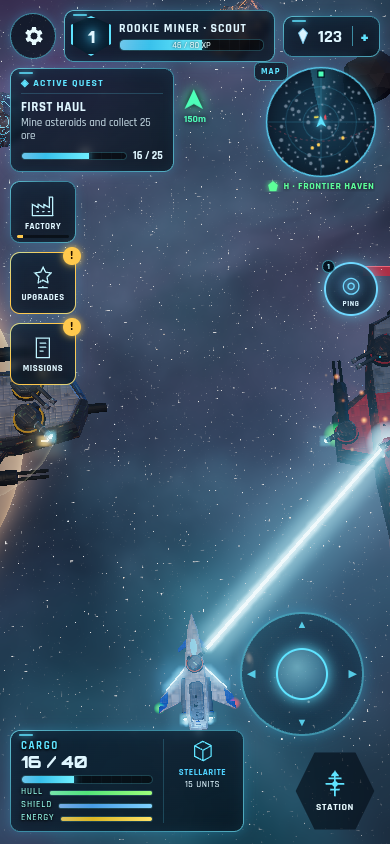
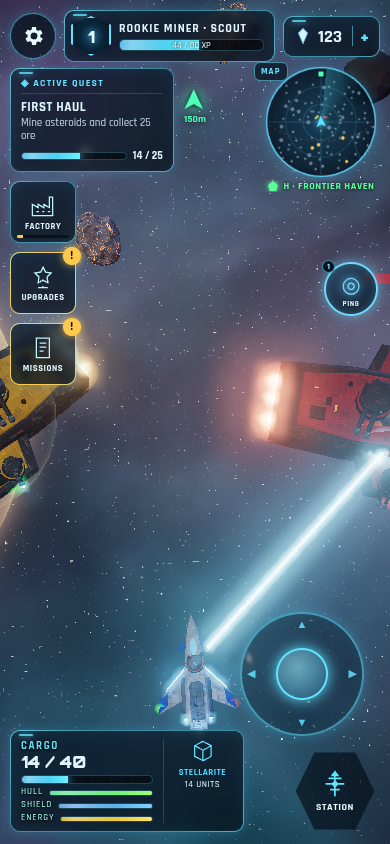
v9 WIP: brighter plasma ramp, deck-height effects, burning breaches, reactor pulses, v9 test + shots

diff --git a/src/explosions.js b/src/explosions.js
@@ -82,9 +82,9 @@ void main() {
   float rim = 0.5 + 0.45 * n;
   float body = 1.0 - smoothstep(rim * 0.55, rim, r);
   float hollow = mix(1.0, smoothstep(0.0, 0.75, r + n * 0.35), smoothstep(0.3, 1.0, age) * 0.75); // core cools first, shell thins
-  float T = clamp(vP.z * (1.0 - age * 0.9) * (1.05 - r * 0.95) + (n - 0.5) * 0.4, 0.0, 1.0);
-  vec3 col = ramp(T) * mix(vec3(1.0), vC, 0.3) * (0.45 + 1.9 * T * T) * (0.6 + 0.55 * n);
-  float a = body * hollow * pow(1.0 - age, 1.4) * vP.w * uGain;
+  float T = clamp(vP.z * (1.0 - age * 0.6) * (1.25 - r * 0.85) + (n - 0.5) * 0.4, 0.0, 1.0);
+  vec3 col = ramp(T) * mix(vec3(1.0), vC, 0.3) * (0.8 + 2.4 * T * T) * (0.6 + 0.55 * n);
+  float a = body * hollow * pow(1.0 - age, 0.9) * vP.w * uGain;
   gl_FragColor = vec4(min(col, vec3(2.6)) * a, a * 0.45); // premultiplied: partly occludes (soft internal shadow), mostly adds
 }`;
 class PlasmaSystem {
@@ -243,9 +243,9 @@ export class ExplosionManager {
     // 2: localized flash (short, white-hot, small) — sized so a fighter never rivals a capital ship
     this.plasma.spawn(x, y + 0.4, z, 0.6 * s, 2.6 * s, 0.12 + 0.03 * s, 1, 1.2, null, vx * 0.5, vz * 0.5);
     // 3: plasma expansion: main lobe + offset lobes drifting with the wreck
-    this.plasma.spawn(x, y + 0.3, z, 1.0 * s, 4.2 * s, 0.45 + 0.16 * s, heat * 0.9, 1, o.tint, vx * 0.6, vz * 0.6);
+    this.plasma.spawn(x, y + 0.3, z, 1.2 * s, 5.2 * s, 0.6 + 0.2 * s, heat * 0.95, 1, o.tint, vx * 0.6, vz * 0.6);
     const lobes = near > 0.4 ? Math.min(4, Math.round(s * 1.2)) : 1;
-    for (let k = 0; k < lobes; k++) { const a = rand(0, TAU), d = rand(0.4, 1) * s; this.plasma.spawn(x + Math.cos(a) * d, y + 0.2, z + Math.sin(a) * d, 0.6 * s, rand(2, 3.2) * s, rand(0.4, 0.7) + 0.1 * s, heat * rand(0.55, 0.8), 0.8, o.tint, vx * 0.6 + Math.cos(a) * s, vz * 0.6 + Math.sin(a) * s); }
+    for (let k = 0; k < lobes; k++) { const a = rand(0, TAU), d = rand(0.4, 1) * s; this.plasma.spawn(x + Math.cos(a) * d, y + 0.2, z + Math.sin(a) * d, 0.6 * s, rand(2.6, 3.8) * s, rand(0.5, 0.8) + 0.15 * s, heat * rand(0.55, 0.8), 0.8, o.tint, vx * 0.6 + Math.cos(a) * s, vz * 0.6 + Math.sin(a) * s); }
     // hot streaks / sparks (existing pooled particles)
     g.fx.burst(x, y, z, Math.ceil((4 + 4 * s) * B.spark * near), 9 + 5 * s, 0.6, 0.35, 0.05, [3.0, 1.6, 0.5], 0.6, 0.5);
     // 4: fragments
@@ -253,7 +253,7 @@ export class ExplosionManager {
     for (let k = 0; k < nf; k++) this.debris.spawn(x, y, z, vx, vz, o.ix || 0, o.iz || 0, 5 + 3 * s, 0.25 + 0.12 * Math.min(s, 4) * rand(0.6, 1.3), Math.random() < 0.3 ? 'plate' : 'chip', heat);
     if (o.light !== false) this.lights.light(x, y, z, o.light ?? s, 0xff9a4a, 0.25 + 0.08 * s, 14 + 9 * s);
     if (s >= 2.5 && near > 0.3) g.ripple && g.ripple(x, z, 6 * s, 0.005 + 0.0015 * Math.min(4, s), 0.5);
-    if (o.ring !== false && s >= 1.2) g.rings.spawn(x, y - 0.2, z, 6 * s, o.tint ? o.tint.map((v) => v * 0.7) : [3, 1.2, 0.5], 0.45 + 0.05 * s);
+    if (o.ring !== false && s >= 1.2) g.rings.spawn(x, y - 0.2, z, 4.5 * s, o.tint ? o.tint.map((v) => v * 0.35) : [1.5, 0.6, 0.25], 0.4 + 0.05 * s);
     if (o.sound !== false && g.audio && g.audio.blast) g.audio.blast(s, x, z, { electric: o.electric, reactor: o.reactor });
     if (o.shake !== false) this.shake(o.shake ?? 0.12 * Math.min(4, s), x, z);
     // 6: dissipation — a few cooling embers, no smoke
@@ -318,17 +318,17 @@ export class ExplosionManager {
     const S = { e, P, t: 0, dur, x: e.x, z: e.z, y: 0.5, vx: Number.isFinite(e.vx) ? e.vx : 0, vz: Number.isFinite(e.vz) ? e.vz : 0, yaw, hx: Math.sin(yaw), hz: Math.cos(yaw), ix, iz, tint: o.tint || [3, 1.2, 0.45],
       grp: keep ? e.group : null, broke: !keep, breakT: keep ? dur * P.keep : 0, ev: [], step: P.steps ? 0 : -1, spin: (ix * Math.cos(yaw) - iz * Math.sin(yaw)) * 0.25 / Math.sqrt(Math.max(1, (e.hullLen || 4) / 10)) + rand(-0.03, 0.03),
       len: e.hullLen || (e.radius || 1) * 2 * k, beam: (e.beam || e.radius || 1) * k, z0: e.segs ? e.segs[0].z * k : -(e.radius || 1) * 0.8, z1: e.segs ? e.segs[e.segs.length - 1].z * k : (e.radius || 1) * 0.8, y0: e.group ? e.group.position.y : 0, shield: (e.shieldMax || e.maxShield || 0) > 0 };
-    if (keep) { g.lod && g.lod.release(e.group); S.D = ensureDamage(e.group); }
+    S.top = 0.8; if (keep) { g.lod && g.lod.release(e.group); S.D = ensureDamage(e.group); const bb = (this._bb || (this._bb = new THREE.Box3())).setFromObject(e.group); if (Number.isFinite(bb.max.y)) S.top = Math.max(0.8, Math.min(bb.max.y, 12) * 0.9 + 0.3); } // effects sit on the deck, not inside it
     const at = (t, fn) => S.ev.push({ t, fn });
     const sz = P.size; const t1 = P === PROFILES.fighter || P === PROFILES.module ? 0.04 : keep ? Math.min(dur * 0.18, 1.6) : dur * 0.08; // end of stage 1
     // 1: structural failure at a few real hull points, hit side first
-    const nFail = P.fail; for (let i = 0; i < nFail; i++) at(i * t1 / Math.max(1, nFail), () => { const q = this.hullPt(S, i === 0 ? -0.6 : rand(-1, 1), i === 0 ? 1 : rand(-1, 1)); this.failPoint(q.x, 0.8, q.z, Math.min(2.2, 0.6 + sz * 0.3), S.ix, S.iz); });
+    const nFail = P.fail; for (let i = 0; i < nFail; i++) at(i * t1 / Math.max(1, nFail), () => { const q = this.hullPt(S, i === 0 ? -0.6 : rand(-1, 1), i === 0 ? 1 : rand(-1, 1)); this.failPoint(q.x, S.top, q.z, Math.min(2.2, 0.6 + sz * 0.3), S.ix, S.iz); });
     // 2+3+4: primary detonation (for kept hulls: the breach section; the core goes at break-up)
-    at(t1, () => { const q = keep ? this.hullPt(S, -0.4, 0.8) : S; this.blast(q.x, 0.5, q.z, keep ? Math.min(2.2, sz * 0.5) : sz, { vx: S.vx, vz: S.vz, tint: S.tint, ix: S.ix, iz: S.iz, light: P.light * (keep ? 0.6 : 1), shake: P.shake * (keep ? 0.5 : 1), frags: keep ? Math.round(P.frags * 0.3) : P.frags, electric: keep }); });
+    at(t1, () => { const q = keep ? this.hullPt(S, -0.4, 0.8) : S; this.blast(q.x, S.grp ? S.top : 0.5, q.z, keep ? Math.min(2.2, sz * 0.5) : sz, { vx: S.vx, vz: S.vz, tint: S.tint, ix: S.ix, iz: S.iz, light: P.light * (keep ? 0.6 : 1), shake: P.shake * (keep ? 0.5 : 1), frags: keep ? Math.round(P.frags * 0.3) : P.frags, electric: keep }); });
     // 5: staggered secondaries at real positions along the keel, bow/stern alternating out from the breach
     const nSec = Math.round(P.sec * B.sec * (busy ? 0.5 : 1)); const t5a = t1 + 0.1, t5b = keep ? S.breakT * 0.98 : dur * 0.8;
     for (let i = 0; i < nSec; i++) { const u = (i + rand(0.1, 0.9)) / Math.max(1, nSec); at(t5a + (t5b - t5a) * u, () => { this.stats0.secondaries++; const q = this.hullPt(S, rand(-1, 1), rand(-0.8, 0.8)); if (this.log) this.log.push({ k: 'sec', x: q.x, z: q.z, cx: S.x, cz: S.z, hx: S.hx, hz: S.hz, z0: S.z0, z1: S.z1, beam: S.beam, t: g.time });
-      this.blast(q.x, 0.6, q.z, Math.max(0.7, sz * rand(0.22, 0.36)), { vx: S.vx, vz: S.vz, tint: S.tint, ix: q.ox, iz: q.oz, light: P.light * 0.45, shake: 0.05 * Math.min(4, sz), sound: i % 2 === 0, frags: Math.round(4 + sz), ring: false });
+      this.blast(q.x, S.grp ? S.top : 0.6, q.z, Math.max(0.7, sz * rand(0.3, 0.48)), { vx: S.vx, vz: S.vz, tint: S.tint, ix: q.ox, iz: q.oz, light: P.light * 0.45, shake: 0.05 * Math.min(4, sz), sound: i % 2 === 0, frags: Math.round(4 + sz), ring: false });
       if (S.grp && i % 2 === 1) { const q2 = this.hullPt(S, rand(-1, 1), 1); this.debris.spawn(q2.x, 0.7, q2.z, S.vx, S.vz, q2.ox, q2.oz, 3 + sz, 0.25 + 0.05 * sz, 'plate', 0.8); } }); }
     if (keep) {
       if (P.steps) this.dreadSteps(S, at);
@@ -351,7 +351,7 @@ export class ExplosionManager {
       this.blast(this.hullPt(S, -0.9, 0).x, 0.6, this.hullPt(S, -0.9, 0).z, sz * 0.4, { vx: S.vx, vz: S.vz, tint: S.tint, sound: true, ring: false }); });
     // 4 reactor destabilises: pulsing blue-white core, arcs, rising hum
     at(D * 0.55, () => { set(4)(); g.audio && g.audio.play && g.audio.play('xReactor', { x: S.x, z: S.z, vol: 1 }); });
-    for (let i = 0; i < 6; i++) at(D * (0.55 + i * 0.025), () => { this.plasma.spawn(S.x, 1, S.z, 2 + i, 5 + i * 1.6, 0.45, 0.95, 0.5 + i * 0.08, [1, 1.8, 3.4], S.vx, S.vz); const a = rand(0, TAU); this.arcs.spawn(S.x, 1, S.z, S.x + Math.cos(a) * S.len * 0.3, 1, S.z + Math.sin(a) * S.len * 0.3, 0.3, [1.6, 2.6, 4], 1.2); });
+    for (let i = 0; i < 6; i++) at(D * (0.55 + i * 0.025), () => { this.plasma.spawn(S.x, S.top + 0.5, S.z, 2 + i, 5 + i * 1.6, 0.45, 0.95, 0.5 + i * 0.08, [1, 1.8, 3.4], S.vx, S.vz); const a = rand(0, TAU); this.arcs.spawn(S.x, 1, S.z, S.x + Math.cos(a) * S.len * 0.3, 1, S.z + Math.sin(a) * S.len * 0.3, 0.3, [1.6, 2.6, 4], 1.2); });
     // 5 central discharge -> 6 hull breaks up (breakUp at keep fraction) -> 7 debris drifts
     at(S.breakT - 0.05, () => { set(5)(); });
     at(S.breakT + 0.6, set(6)); at(S.breakT + 1.8, set(7));
@@ -378,7 +378,11 @@ export class ExplosionManager {
       if (S.grp) { S.yaw += S.spin * dt; S.hx = Math.sin(S.yaw); S.hz = Math.cos(S.yaw); const f = Math.min(1, S.t / Math.max(0.1, S.breakT));
         S.grp.position.set(S.x, S.y0, S.z); S.grp.rotation.y = S.yaw; S.grp.rotation.z = Math.sin(S.t * 0.7) * 0.04 * f;
         if (S.D) { S.D.U.uDmg.value = Math.min(1, 0.6 + f * 0.5); S.D.U.uFlick.value = Math.random() < 0.2 + f * 0.6 ? rand(0, 0.3) : Math.max(0, 0.9 - f); }
-        if (Math.random() < dt * (2 + S.P.size) * g.vfx.near(S.x, S.z)) { const q = this.hullPt(S, rand(-1, 1), rand(-1, 1)); this.failPoint(q.x, 0.8, q.z, 0.6 + S.P.size * 0.15, q.ox, q.oz); } }
+        const nr = g.vfx.near(S.x, S.z);
+        if (Math.random() < dt * (2 + S.P.size) * nr) { const q = this.hullPt(S, rand(-1, 1), rand(-1, 1)); this.failPoint(q.x, S.top, q.z, 0.6 + S.P.size * 0.15, q.ox, q.oz); }
+        if (Math.random() < dt * (0.8 + S.P.size * 0.7) * nr * (0.4 + f)) { const q = this.hullPt(S, rand(-1, 1), rand(-0.7, 0.7)); const u = 0.5 + 0.25 * S.P.size; // burning breaches along the failing hull
+          this.plasma.spawn(q.x, S.top, q.z, u * 0.6, u * rand(2, 3), rand(0.45, 0.7), rand(0.6, 0.8), 0.8, S.tint, S.vx, S.vz); }
+        if (S.step === 4 && Math.random() < dt * 7) { const R = S.len * rand(0.05, 0.11); this.plasma.spawn(S.x, S.top + 0.5, S.z, R * 0.5, R, 0.3, 1, 0.6, [1, 1.8, 3.4], S.vx, S.vz); } } // reactor destabilising
       this.seqStep(S, dt);
       if (!S.ev.length && S.t >= S.dur) { if (S.grp) this.breakUp(S); this.seqs.splice(i, 1); this.stats0.finished++; }
     }
